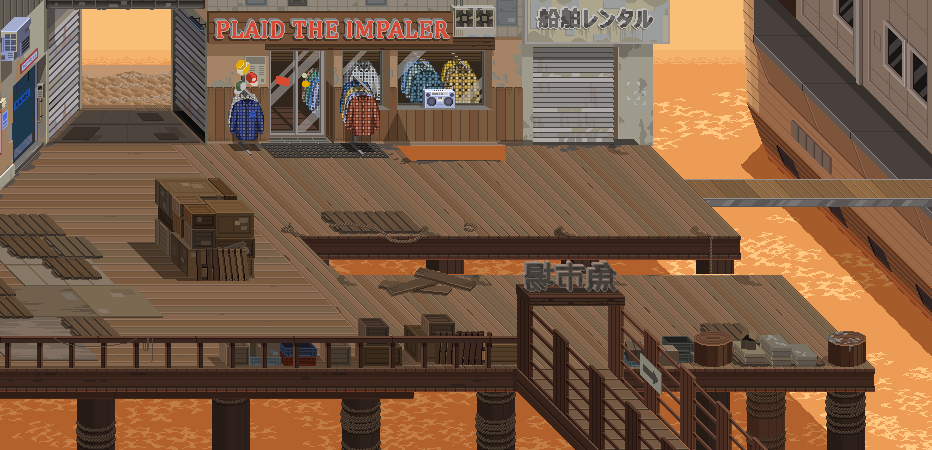
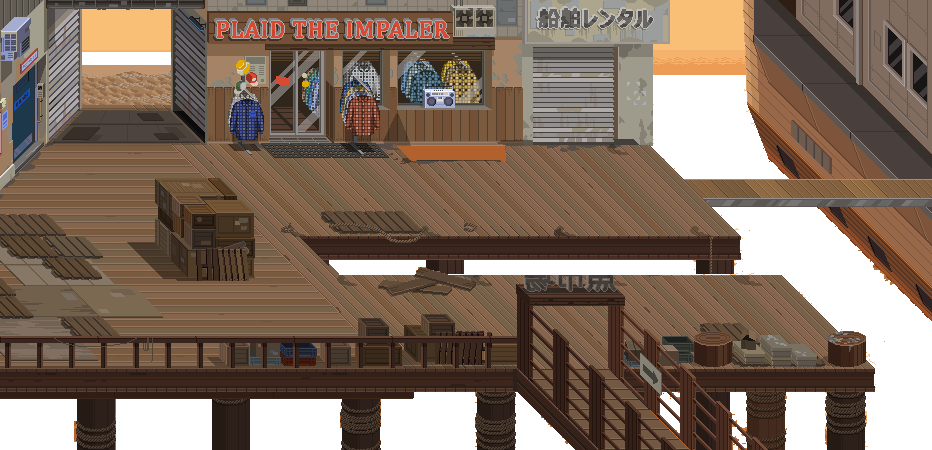
민경운 : Ocean 레벨 파도 애니메이션 업데이트

diff --git a/Dx2dGameMKU/GameEngineContents/OceanLevel.cpp b/Dx2dGameMKU/GameEngineContents/OceanLevel.cpp
@@ -2,6 +2,8 @@
 #include "OceanLevel.h"
 
 #include <GameEngineCore/GameEngineTexture.h>
+#include <GameEngineCore/GameEngineSpriteRenderer.h>
+#include <GameEngineCore/GameEngineSprite.h>
 
 #include "RCGDefine.h"
 #include "RCGEnums.h"
@@ -60,6 +62,7 @@ void OceanLevel::Start()
 	LoadImgRes();
 
 	CreateBackGrounds();
+	CreateWaveRender();
 	CreateDoors();
 	CreateEnemies();
 	FieldLevelBase::CreateNpcs(NpcInfoes);
@@ -108,4 +111,33 @@ void OceanLevel::CreateEnemies()
 		EnemyType::Cop,
 		EnemyType::Waver
 		}, EnemySpawnPoses);
+}
+
+
+
+void OceanLevel::CreateWaveRender()
+{
+	const std::string_view FileName = "Ocean_WaveAni";
+	const std::string_view AniName = "Wave";
+	const float4 TexScale = { 932.f, 450.f, 1.f };
+
+
+	GameEngineDirectory Dir;
+	RCGDefine::MoveContentPath(Dir, ResType::Image);
+	Dir.Move("Level");
+	GameEngineSprite::LoadFolder(Dir.GetPlusFileName(FileName).GetFullPath());
+
+	std::shared_ptr<GameEngineSpriteRenderer> Render = nullptr;
+	Render = GetBackGround()->CreateComponent<GameEngineSpriteRenderer>(FieldRenderOrder::ZOrder);
+	Render->CreateAnimation
+	({
+		.AnimationName = AniName,
+		.SpriteName = FileName,
+		.Loop = true,
+		});
+	Render->ChangeAnimation(AniName);
+
+	GameEngineTransform* WaveTrans = Render->GetTransform();
+	WaveTrans->SetLocalScale(TexScale * RCGDefine::ResourceScaleConvertor);
+	WaveTrans->SetLocalPosition(float4::Forward * 501.f);
 }

diff --git a/Dx2dGameMKU/GameEngineContents/OceanLevel.h b/Dx2dGameMKU/GameEngineContents/OceanLevel.h
@@ -26,5 +26,6 @@ private:
 	void CreateBackGrounds();
 	void CreateDoors();
 	void CreateEnemies();
+	void CreateWaveRender();
 };
 
